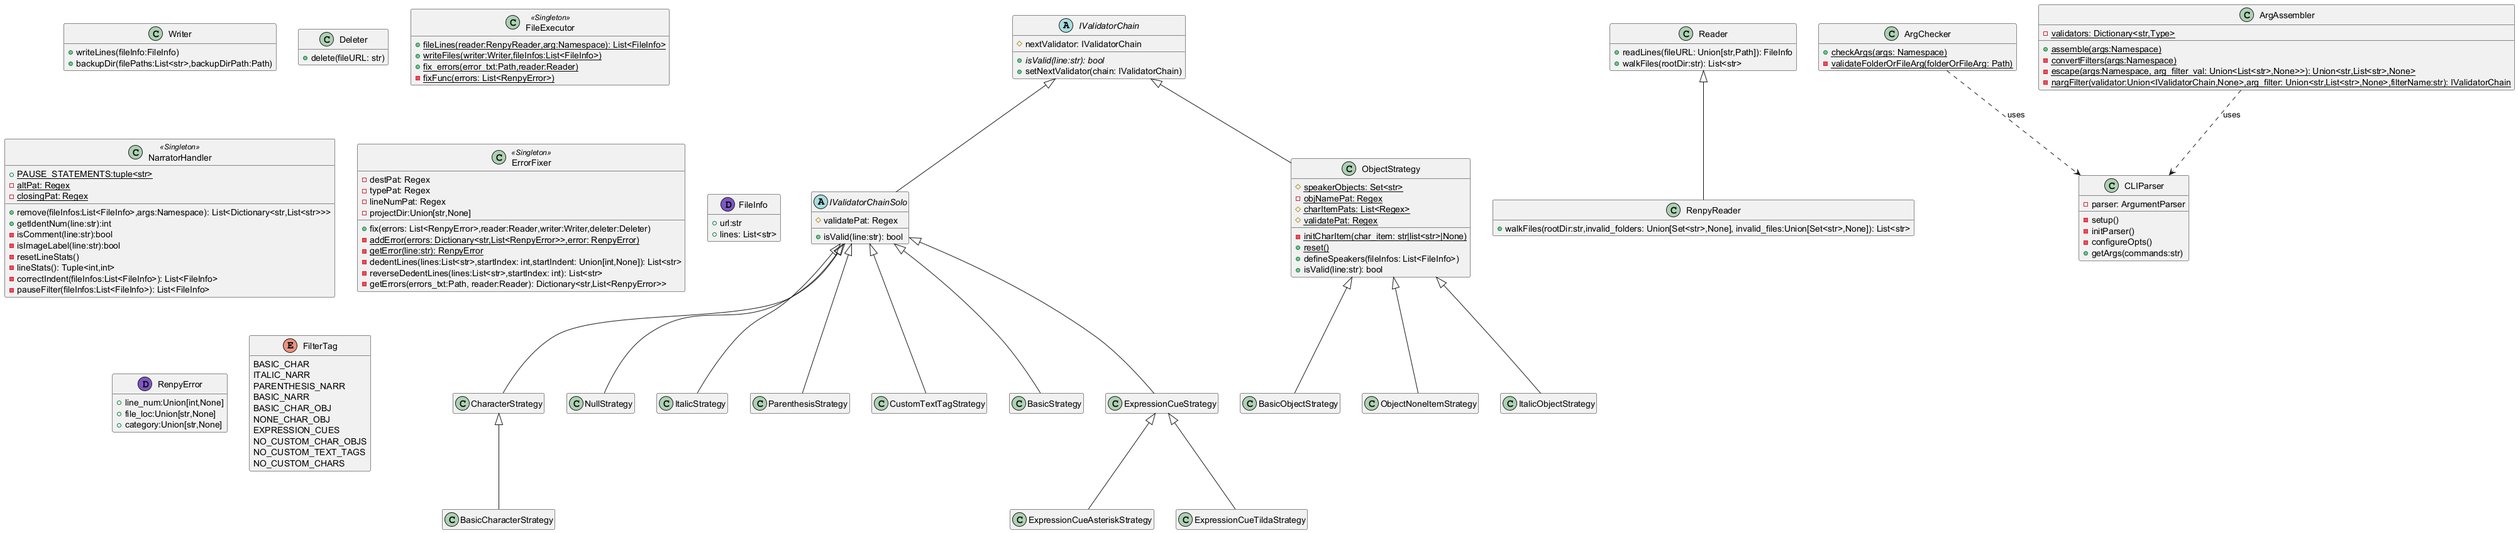
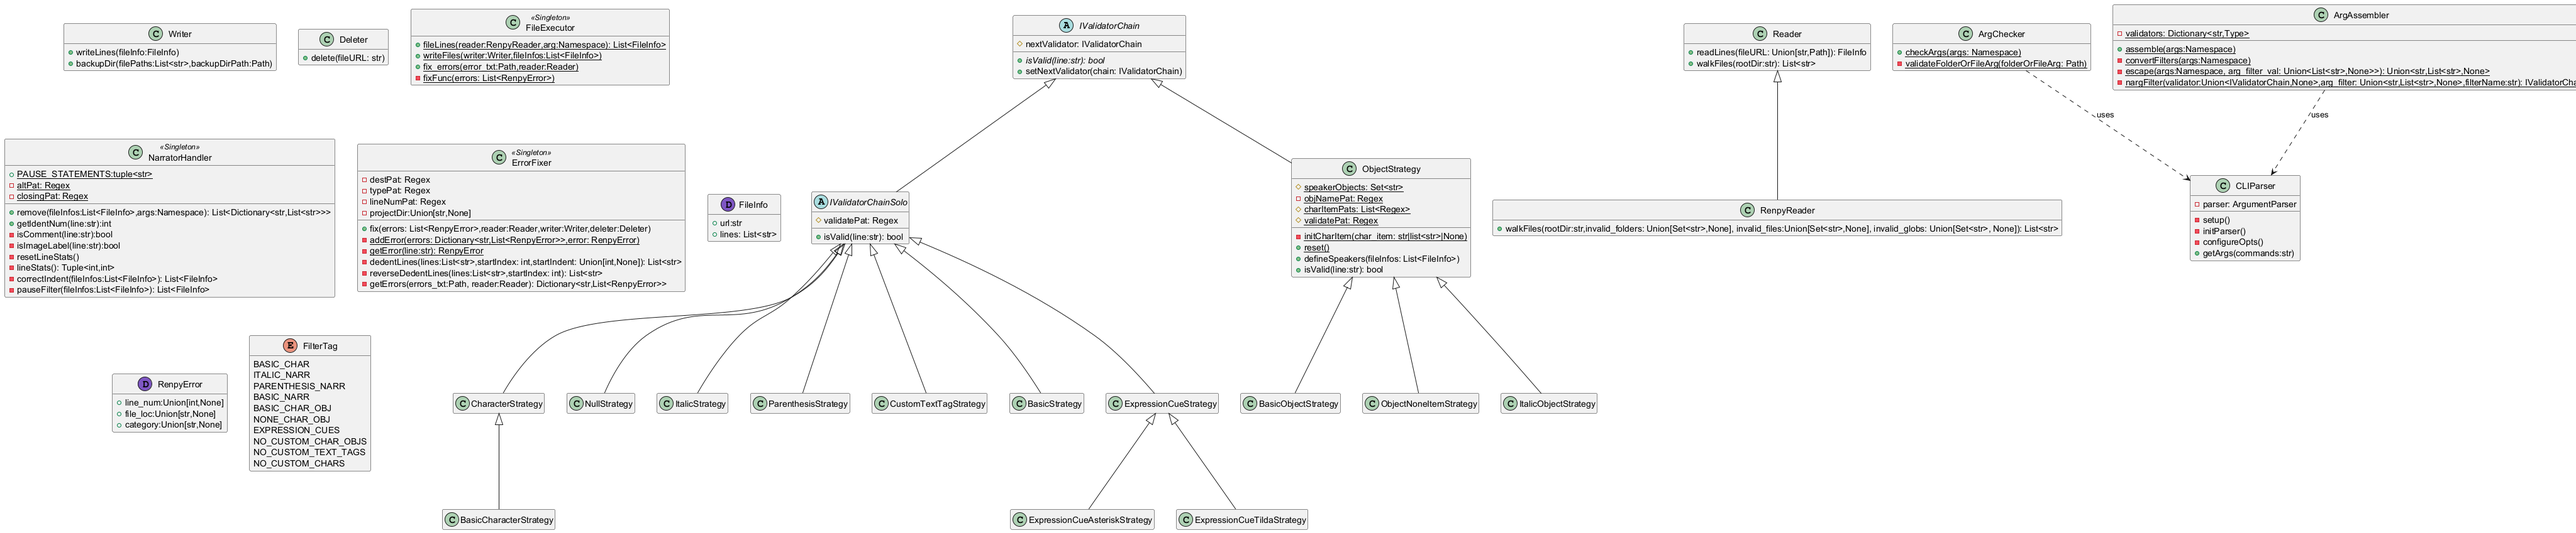
Granular control for ignoring files - Fix: if AppendUnique action is used on an option without a default, no collection is used. - Update class diagram - New option: 'invalid-globs'. Provides glob support for ignoring invalid files. - Update COMMANDS.md - Update code docs - Update tests

diff --git a/src/lib/file/renpy_reader.py b/src/lib/file/renpy_reader.py
@@ -1,4 +1,4 @@
-import os
+import os,fnmatch
 from typing import override
 from .reader import Reader
 
@@ -8,7 +8,7 @@ class RenpyReader(Reader):
 
     @override
     def walk_files(
-        self, root_dir: str, invalid_folders: set[str] | None = None, invalid_files: set[str] | None = None
+        self, root_dir: str, invalid_folders: set[str] | None = None, invalid_files: set[str] | None = None, invalid_globs: set[str] | None = None
     ) -> list[str]:
         """Retrieve all file paths recursively.
 
@@ -16,16 +16,23 @@ class RenpyReader(Reader):
 
         Args:
             root_dir: The starting directory to walk through.
+            invalid_folders: collection of directories to avoid
+            invalid_files: collection of file names to avoid
+            invalid_globs: collection of file globs used to avoid matched files
 
         Returns:
             A list of paths to a renpy file (.rpy).
         """
-        rpy_file_ext = "rpy"
+        rpy_file_ext = ".rpy"
         renpy_files = []
         for dirpath, _, file_names in os.walk(root_dir):
             if invalid_folders and any([x in dirpath for x in invalid_folders]):
                 continue
             for file_name in file_names:
-                if file_name.endswith(rpy_file_ext) and (not invalid_files or file_name[:-4] not in invalid_files):
+                if not file_name.endswith(rpy_file_ext):
+                    continue
+                is_literal_check_passed = not invalid_files or file_name[:-4] not in invalid_files
+                is_glob_check_passed = not invalid_globs or invalid_globs and any((file_name for pat in invalid_globs if not fnmatch.fnmatchcase(file_name, pat + rpy_file_ext)))
+                if is_literal_check_passed and is_glob_check_passed:
                     renpy_files.append(os.path.join(dirpath, file_name))
         return renpy_files

diff --git a/src/lib/arg/cli_parser.py b/src/lib/arg/cli_parser.py
@@ -20,7 +20,7 @@ class CLIParser:
     """
 
     def __init__(self):
-        self.__version_num = "2.1.6"
+        self.__version_num = "2.2.0"
         self.__setup()
 
     def __setup(self):
@@ -103,6 +103,12 @@ class CLIParser:
             default={"gui", "options", "screens", "images", "gallery"},
             metavar="IGNORE_FILES",
             help="Ignore specified [files] when looking for .rpy files.",
+        )
+        self.__add_search_arg(
+            "--invalid-globs",
+            action=AppendUnique,
+            metavar="IGNORE_FILE_GLOBS",
+            help="Ignore specified [files] using glob syntax."
         )
         no_filters: dict[str, str] = {
             FilterTag.BASIC_NARR.value: "Keep dialogues that don't have a speaker",

diff --git a/tests/file/test_reader.py b/tests/file/test_reader.py
@@ -18,3 +18,8 @@ class TestReader(unittest.TestCase):
         args = fixture.get_args(self._parser, [fixture.DUMMY_PATH, "--invalid-dirs", "child_dir"])
         files = self._reader.walk_files(args.folder_or_file, invalid_folders=args.invalid_dirs)
         self.assertEqual(len(files), 1, "hello.rpy should not be seen by reader")
+
+    def test_invalid_file_globs(self):
+        args = fixture.get_args(self._parser,[fixture.DUMMY_PATH,"--invalid-globs","[hz]*"])
+        files = self._reader.walk_files(args.folder_or_file, invalid_globs=args.invalid_globs)
+        self.assertEqual(len(files),1, "Glob should not match any .rpy files!")

diff --git a/src/lib/file/file_executor.py b/src/lib/file/file_executor.py
@@ -26,7 +26,7 @@ class FileExecutor:
 
     @classmethod
     def file_lines(cls, reader: RenpyReader, arg_namespace) -> list[FileInfo]:
-        files = reader.walk_files(arg_namespace.folder_or_file, arg_namespace.invalid_dirs, arg_namespace.invalid_files)
+        files = reader.walk_files(arg_namespace.folder_or_file, arg_namespace.invalid_dirs, arg_namespace.invalid_files,arg_namespace.invalid_globs)
         if arg_namespace.backup:
             Writer.backup_dir(files, arg_namespace.backup)
         file_infos = None

diff --git a/src/lib/arg/actions/append_unique.py b/src/lib/arg/actions/append_unique.py
@@ -31,6 +31,8 @@ class AppendUnique(argparse.Action):
         if not values:
             return
         self._items = getattr(namespace, self.dest, set())
+        if self._items is None:
+            self._items = set()
         if type(values) is str:
             self._items.add(values)
         else:

diff --git a/COMMANDS.md b/COMMANDS.md
@@ -126,7 +126,28 @@ nonarrate mycoolgame\game --invalid-files options image keymap
 
 Ignore specified *.rpy* files when looking for *.rpy* files.
 
-nonarrate will ignore the specified files when searching for *.rpy* files.
+nonarrate will ignore the specified files when searching for *.rpy* files. Can
+be used with `--invalid-globs`.
+
+***NOTE: Do *not* include `.rpy`. nonarrate will automatically assume this file type!**
+
+***--invalid-globs*** `<file-glob...>`
+
+```bash
+# ignore files matching: [0-9][0-9][a-zA-Z]*
+# This pattern will match files such as 01animation.rpy, 93decor_tl.rpy, and 25TEST.rpy
+nonarrate mycoolgame\game --invalid-globs '[0-9][0-9][a-zA-Z]*'
+```
+
+Ignore *.rpy* files using globs.
+
+nonarrate will ignore files that match any of the specified file globs. Can be used
+with `--invalid-files`. 
+
+See [Python's fnmatch library](https://docs.python.org/3/library/fnmatch.html#module-fnmatch)
+for list of available globs. **Globs**: `*`, `?`, `[...]`
+
+***NOTE: Do *not* include `.rpy`. nonarrate will automatically assume this file type!**
 
 ___
 
